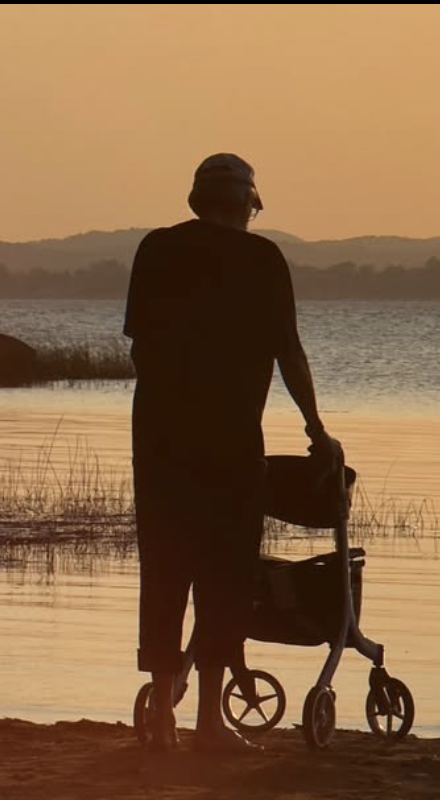
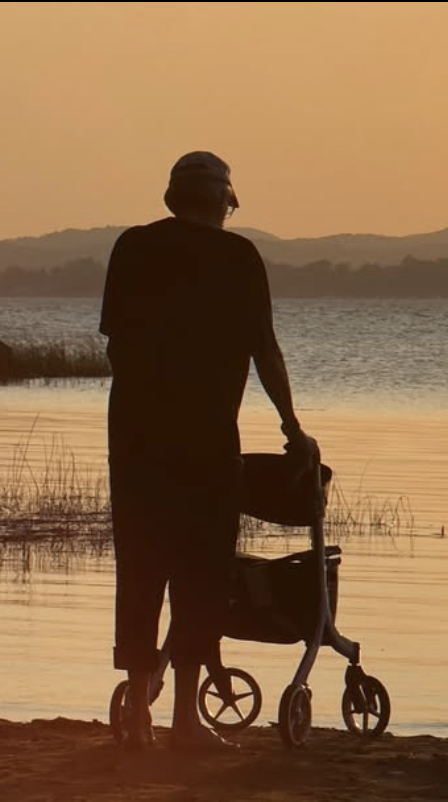
new pic new film

diff --git a/js/film-gallery.js b/js/film-gallery.js
@@ -1,0 +1,58 @@
+(() => {
+    const gallery = document.querySelector(".film-gallery");
+    const dialog = document.querySelector("#film-gallery-dialog");
+
+    if (!(gallery instanceof HTMLElement) || !(dialog instanceof HTMLDialogElement)) {
+        return;
+    }
+
+    const cards = Array.from(gallery.querySelectorAll(".film-gallery-card"));
+    const dialogImage = dialog.querySelector(".film-gallery-dialog-image");
+    const dialogTitle = dialog.querySelector("#film-gallery-title");
+    const dialogDescription = dialog.querySelector(".film-gallery-description");
+    const previousButton = dialog.querySelector(".film-gallery-previous");
+    const nextButton = dialog.querySelector(".film-gallery-next");
+    const closeButton = dialog.querySelector(".film-gallery-close");
+    let activeIndex = 0;
+
+    function showProject(index) {
+        activeIndex = (index + cards.length) % cards.length;
+        const card = cards[activeIndex];
+        const image = card.querySelector("img");
+        const title = card.dataset.title || `Project ${activeIndex + 1}`;
+
+        dialogTitle.textContent = title;
+        dialogDescription.textContent = card.dataset.description || "";
+        dialogImage.alt = title;
+
+        const imageSource = image.getAttribute("src");
+        if (imageSource) {
+            dialogImage.setAttribute("src", imageSource);
+        } else {
+            dialogImage.removeAttribute("src");
+        }
+    }
+
+    cards.forEach((card, index) => {
+        card.addEventListener("click", () => {
+            showProject(index);
+            dialog.showModal();
+        });
+    });
+
+    previousButton.addEventListener("click", () => showProject(activeIndex - 1));
+    nextButton.addEventListener("click", () => showProject(activeIndex + 1));
+    closeButton.addEventListener("click", () => dialog.close());
+    dialog.addEventListener("click", (event) => {
+        if (event.target === dialog) {
+            dialog.close();
+        }
+    });
+    dialog.addEventListener("keydown", (event) => {
+        if (event.key === "ArrowLeft") {
+            showProject(activeIndex - 1);
+        } else if (event.key === "ArrowRight") {
+            showProject(activeIndex + 1);
+        }
+    });
+})();

diff --git a/portfolio_FR.html b/portfolio_FR.html
@@ -68,7 +68,7 @@
                         <button class="film-gallery-card" type="button" data-title="La Bastide de Laurence" data-description="Présentation d'une villa de luxe dans le sud de la France, réalisée par Titouan Debray."><img src="assets/img/bastide_poster.jpg" alt="" /><span>La Bastide de Laurence</span></button>
                         <button class="film-gallery-card" type="button" data-title="Villa Fantaisie" data-description="Présentation d'une villa de luxe dans le sud de la France, réalisée par Titouan Debray."><img src="assets/img/villa_fantaisie_poster.png" alt="" /><span>Villa Fantaisie</span></button>
                         <button class="film-gallery-card" type="button" data-title="Yonder - Backcountry Drive" data-description="Court métrage touristique tourné dans le sud de la France."><img src="assets/img/yonder_poster.png" alt="" /><span>Yonder - Backcountry Drive</span></button>
-                        
+                        <button class="film-gallery-card" type="button" data-title="Yonder - Backcountry Drive" data-description="Court métrage d'animation réalisé par Marianne Lavergne. Présenté au Concordia Film Festival 2022."><img src="assets/img/rupture.jpg" alt="" /><span>Rupture</span></button>
                     </div>
                     <dialog class="film-gallery-dialog" id="film-gallery-dialog" aria-labelledby="film-gallery-title">
                         <button class="film-gallery-close" type="button" aria-label="Close project details">&times;</button>

diff --git a/portfolio.html b/portfolio.html
@@ -66,6 +66,8 @@
                         <button class="film-gallery-card" type="button" data-title="La Bastide de Laurence" data-description="A showcase for a luxury villa in the south of France, directed by Titouan Debray."><img src="assets/img/bastide_poster.jpg" alt="" /><span>La Bastide de Laurence</span></button>
                         <button class="film-gallery-card" type="button" data-title="Villa Fantaisie" data-description="A showcase for a luxury villa in the south of France, directed by Titouan Debray."><img src="assets/img/villa_fantaisie_poster.png" alt="" /><span>Villa Fantaisie</span></button>
                         <button class="film-gallery-card" type="button" data-title="Yonder - Backcountry Drive" data-description="A tourism short set in the south of France."><img src="assets/img/yonder_poster.png" alt="" /><span>Yonder - Backcountry Drive</span></button>
+                        <button class="film-gallery-card" type="button" data-title="Yonder - Backcountry Drive" data-description="Short animation film created by Marianne Lavergne. Presented at Concordia Film Festival 2022."><img src="assets/img/rupture.jpg" alt="" /><span>Rupture</span></button>
+
                         
                     </div>
                     <dialog class="film-gallery-dialog" id="film-gallery-dialog" aria-labelledby="film-gallery-title">
